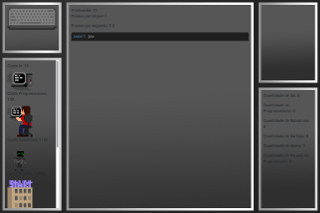
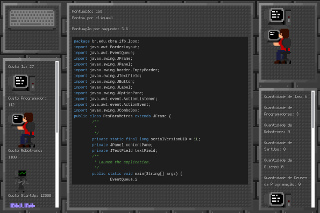
Credits and description as html files

diff --git a/Client/src/app/game-metadata.service.ts b/Client/src/app/game-metadata.service.ts
@@ -11,14 +11,20 @@ import { HttpClient } from '@angular/common/http';
   providedIn: 'root'
 })
 export class GameMetadataService {
-
   constructor(
     private http: HttpClient
   ) { }
 
   public getDescription(game: Game): Observable<string> {
     return <Observable<string>>this.http.get(
-      environment.gamesPath + game.path + '/meta/desc',
+      environment.gamesPath + game.path + '/meta/desc.html',
+      { responseType: 'text' as 'json' }
+    );
+  }
+
+  public getCredits(game: Game): Observable<string> {
+    return <Observable<string>>this.http.get(
+      environment.gamesPath + game.path + '/meta/credits.html',
       { responseType: 'text' as 'json' }
     );
   }

diff --git a/Client/src/app/game-screen/game-screen/game-screen.component.html b/Client/src/app/game-screen/game-screen/game-screen.component.html
@@ -2,11 +2,15 @@
     <gs-game-title [game]="game"></gs-game-title>
     <div id="container">
         <gs-screenshot [game]="game"></gs-screenshot>
-        <div id="contents">
-            <p>
-                {{description$ | async}}
-            </p>
-            <gs-menu [game]="game"></gs-menu>
+        <div>
+            <div id="credits">
+                Por
+                <span [innerHTML]="credits$ | async"></span>
+            </div>
+            <div id="contents">
+                <p [innerHTML]="description$ | async"></p>
+                <gs-menu [game]="game"></gs-menu>
+            </div>
         </div>
     </div>
 </ng-container>

diff --git a/Client/src/app/game-screen/game-screen/game-screen.component.ts b/Client/src/app/game-screen/game-screen/game-screen.component.ts
@@ -13,6 +13,7 @@ export class GameScreenComponent implements OnInit {
 
   public game$: Observable<Game>;
   public description$: Observable<string>;
+  public credits$: Observable<string>;
 
   constructor(
     private route: ActivatedRoute,
@@ -28,6 +29,7 @@ export class GameScreenComponent implements OnInit {
 
         this.game$.subscribe(game => {
           this.description$ = this.gameMetadataService.getDescription(game);
+          this.credits$ = this.gameMetadataService.getCredits(game);
         });
       }
     );

diff --git a/Client/src/app/game-screen/game-screen/game-screen.component.scss b/Client/src/app/game-screen/game-screen/game-screen.component.scss
@@ -3,12 +3,17 @@ p {
 }
 
 @media only screen and (max-width: 767px) {
-    #contents {
-        margin-top: 30px;
+    #credits {
+        text-align: center;
     }
 }
 
-@media only screen and (min-width: 768px) {
+@media only screen and (min-width: 768px) {    
+    #credits {
+        padding-left: 10px;
+        margin-bottom: 0.5rem;
+    }
+
     #container {
         display: flex;
     }

diff --git a/Games/codeclicker/meta/desc.html b/Games/codeclicker/meta/desc.html
@@ -1,0 +1,1 @@
+Esse é o texto de descrição do <strong>Code Clicker</strong>. Mude esse arquivo para mudar a descrição.

diff --git a/Games/binwars/meta/desc.html b/Games/binwars/meta/desc.html
@@ -1,0 +1,1 @@
+Esse é o texto de descrição do <strong>Binary Wars</strong>. Mude esse arquivo para mudar a descrição.

diff --git a/Games/codeclicker/meta/credits.html b/Games/codeclicker/meta/credits.html
@@ -1,0 +1,1 @@
+Vinícius Antunes <em>(desenvolvimento)</em> e Rafael Caixeta <em>(gráficos)</em>

diff --git a/Games/binwars/meta/credits.html b/Games/binwars/meta/credits.html
@@ -1,0 +1,1 @@
+Pedro Borges <em>(desenvolvimento)</em> e Rafael Caixeta <em>(gráficos)</em>
